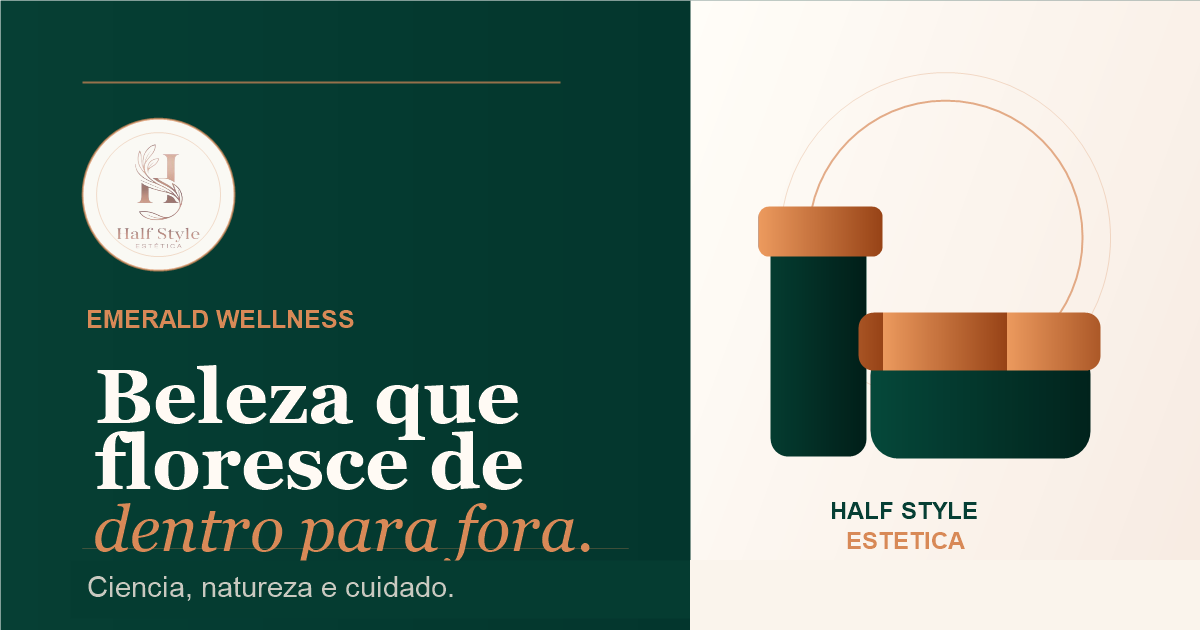
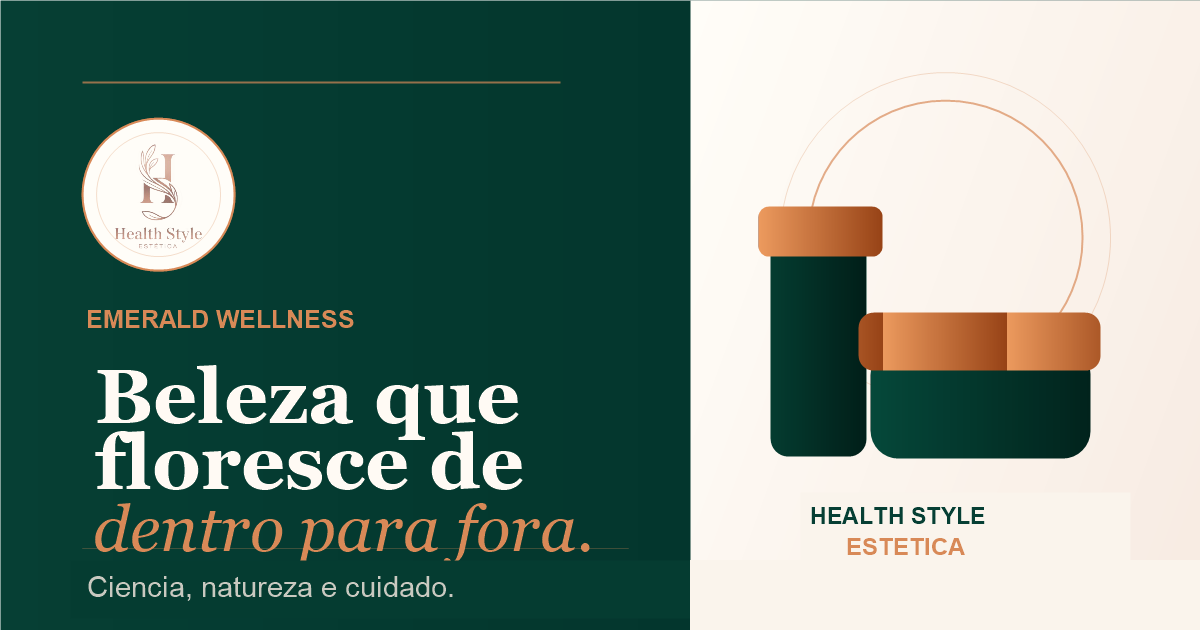
Health-corret

diff --git a/index.html b/index.html
@@ -3,18 +3,18 @@
   <head>
     <meta charset="UTF-8">
     <meta name="viewport" content="width=device-width, initial-scale=1.0">
-    <meta name="description" content="Half Style Estética: rituais personalizados Emerald Wellness que unem ciência, natureza e cuidado para realçar sua melhor versão.">
+    <meta name="description" content="Health Style Estética: rituais personalizados Emerald Wellness que unem ciência, natureza e cuidado para realçar sua melhor versão.">
     <meta name="theme-color" content="#063f34">
     <meta name="color-scheme" content="light">
-    <meta name="application-name" content="Half Style Estética">
-    <meta name="apple-mobile-web-app-title" content="Half Style">
+    <meta name="application-name" content="Health Style Estética">
+    <meta name="apple-mobile-web-app-title" content="Health Style">
     <meta name="apple-mobile-web-app-capable" content="yes">
     <meta name="apple-mobile-web-app-status-bar-style" content="default">
 
     <meta property="og:type" content="website">
     <meta property="og:locale" content="pt_BR">
-    <meta property="og:site_name" content="Half Style Estética">
-    <meta property="og:title" content="Half Style Estética | Emerald Wellness">
+    <meta property="og:site_name" content="Health Style Estética">
+    <meta property="og:title" content="Health Style Estética | Emerald Wellness">
     <meta property="og:description" content="Beleza que floresce de dentro para fora. Rituais personalizados com ciência, natureza e cuidado.">
     <meta property="og:url" content="https://half-style-estetica.vercel.app/">
     <meta property="og:image" content="https://half-style-estetica.vercel.app/og/half-style-og.png">
@@ -22,15 +22,15 @@
     <meta property="og:image:type" content="image/png">
     <meta property="og:image:width" content="1200">
     <meta property="og:image:height" content="630">
-    <meta property="og:image:alt" content="Half Style Estética Emerald Wellness, beleza que floresce de dentro para fora.">
+    <meta property="og:image:alt" content="Health Style Estética Emerald Wellness, beleza que floresce de dentro para fora.">
 
     <meta name="twitter:card" content="summary_large_image">
-    <meta name="twitter:title" content="Half Style Estética | Emerald Wellness">
+    <meta name="twitter:title" content="Health Style Estética | Emerald Wellness">
     <meta name="twitter:description" content="Beleza que floresce de dentro para fora. Rituais personalizados com ciência, natureza e cuidado.">
     <meta name="twitter:image" content="https://half-style-estetica.vercel.app/og/half-style-og.png">
-    <meta name="twitter:image:alt" content="Half Style Estética Emerald Wellness, beleza que floresce de dentro para fora.">
+    <meta name="twitter:image:alt" content="Health Style Estética Emerald Wellness, beleza que floresce de dentro para fora.">
 
-    <title>Half Style Estética | Emerald Wellness</title>
+    <title>Health Style Estética | Emerald Wellness</title>
     <link rel="canonical" href="https://half-style-estetica.vercel.app/">
     <link rel="manifest" href="/manifest.webmanifest">
     <link rel="icon" type="image/png" href="/favicon.png">

diff --git a/src/components/SiteFooter.vue b/src/components/SiteFooter.vue
@@ -1,16 +1,16 @@
 <script setup>
-import { logoHalfLife } from "../assets";
+import { logoHealthStyle } from "../assets";
 </script>
 
 <template>
   <footer class="footer px-5 py-12 lg:px-20 lg:py-16">
     <div class="footer-inner mx-auto grid max-w-7xl gap-10 lg:grid-cols-[1.15fr_0.85fr_0.7fr]">
       <div class="footer-brand">
-        <a class="footer-logo" href="#top" aria-label="Half Style Estética">
-          <img :src="logoHalfLife" alt="Half Style Estética">
+        <a class="footer-logo" href="#top" aria-label="Health Style Estética">
+          <img :src="logoHealthStyle" alt="Health Style Estética">
         </a>
         <div>
-          <h2 class="brand-title footer-title">Half Style Estética</h2>
+          <h2 class="brand-title footer-title">Health Style Estética</h2>
           <p>Atendimento estético premium com avaliação profissional, protocolos seguros e orientação clara antes de cada procedimento.</p>
         </div>
       </div>
@@ -21,7 +21,7 @@ import { logoHalfLife } from "../assets";
         <div class="footer-contact">
           <a href="https://wa.me/5500000000000" target="_blank" rel="noreferrer">WhatsApp</a>
           <a href="tel:+5500000000000">Telefone</a>
-          <a href="mailto:contato@halfstyle.com.br">Email</a>
+          <a href="mailto:contato@healthstyle.com.br">Email</a>
         </div>
       </div>
 

diff --git a/src/components/AboutSection.vue b/src/components/AboutSection.vue
@@ -6,13 +6,13 @@ import { metrics } from "../data/siteData";
 <template>
   <section class="about-panel" id="sobre">
     <div class="about-image-frame">
-      <img :src="emeraldStudioInterior" alt="Recepção da Half Style Estética em tons claros e naturais" loading="lazy">
+      <img :src="emeraldStudioInterior" alt="Recepção da Health Style Estética em tons claros e naturais" loading="lazy">
     </div>
 
     <div class="about-copy">
       <p class="section-kicker">Sobre nós</p>
       <h2>Mais que estética, um estilo de vida.</h2>
-      <p>Na Half Style Estética, acreditamos que o cuidado verdadeiro vai além da aparência. É sobre sentir-se bem, ter mais confiança e viver sua melhor versão todos os dias.</p>
+      <p>Na Health Style Estética, acreditamos que o cuidado verdadeiro vai além da aparência. É sobre sentir-se bem, ter mais confiança e viver sua melhor versão todos os dias.</p>
       <a class="emerald-button" href="#contato">
         Conheça nossa história
         <span aria-hidden="true">→</span>

diff --git a/src/components/SiteHeader.vue b/src/components/SiteHeader.vue
@@ -1,6 +1,6 @@
 <script setup>
 import { ref } from "vue";
-import { logoHalfLife } from "../assets";
+import { logoHealthStyle } from "../assets";
 
 const mobileOpen = ref(false);
 
@@ -16,12 +16,12 @@ const navItems = [
 
 <template>
   <header class="site-header">
-    <a class="brand-lockup emerald-brand" href="#top" aria-label="Half Style Estética">
+    <a class="brand-lockup emerald-brand" href="#top" aria-label="Health Style Estética">
       <span class="emerald-brand-seal" aria-hidden="true">
-        <img :src="logoHalfLife" alt="">
+        <img :src="logoHealthStyle" alt="">
       </span>
       <span class="emerald-brand-copy">
-        <strong>Half Style</strong>
+        <strong>Health Style</strong>
         <small>Estética</small>
       </span>
       <span class="emerald-brand-underline" aria-hidden="true"></span>

diff --git a/src/assets.js b/src/assets.js
@@ -1,5 +1,5 @@
-import logoHalfLife from "./image/logo/logo-Halfe-Life.png";
-import halfStyleFinal from "./image/half_style_final.png";
+import healthStyleFinal from "./image/half_style_final.png";
+import logoHealthStyle from "./image/logo/logo-Halfe-Life.png";
 import emeraldHeroProducts from "./image/esmerald/hero-products.png";
 import emeraldStudioInterior from "./image/esmerald/studio-interior.png";
 import emeraldTreatmentAdvanced from "./image/esmerald/treatment-advanced.png";
@@ -14,6 +14,6 @@ export {
   emeraldTreatmentBody,
   emeraldTreatmentFacial,
   emeraldTreatmentHomecare,
-  halfStyleFinal,
-  logoHalfLife
+  healthStyleFinal,
+  logoHealthStyle
 };

diff --git a/src/style.css b/src/style.css
@@ -1047,9 +1047,9 @@ body {
 }
 
 .emerald-brand-copy strong {
-  font-size: clamp(1.35rem, 1.8vw, 1.9rem);
+  font-size: clamp(1.2rem, 1.55vw, 1.62rem);
   font-weight: 800;
-  letter-spacing: 0.18em;
+  letter-spacing: 0.14em;
 }
 
 .emerald-brand-copy small {
@@ -1776,8 +1776,8 @@ body {
   }
 
   .emerald-brand-copy strong {
-    font-size: 1.18rem;
-    letter-spacing: 0.12em;
+    font-size: 1rem;
+    letter-spacing: 0.08em;
   }
 
   .emerald-brand-copy small {
@@ -1816,7 +1816,8 @@ body {
   }
 
   .emerald-brand-copy strong {
-    font-size: 1rem;
+    font-size: 0.88rem;
+    letter-spacing: 0.06em;
   }
 
   .emerald-brand-copy small {

diff --git a/src/components/ContactSection.vue b/src/components/ContactSection.vue
@@ -25,7 +25,7 @@ function submitForm() {
       <div class="contact-links mt-6 flex flex-wrap gap-3">
         <a href="https://wa.me/5500000000000" target="_blank" rel="noreferrer">WhatsApp</a>
         <a href="tel:+5500000000000">Ligar</a>
-        <a href="mailto:contato@halfstyle.com.br">Email</a>
+        <a href="mailto:contato@healthstyle.com.br">Email</a>
       </div>
     </div>
 

diff --git a/src/components/HeroSection.vue b/src/components/HeroSection.vue
@@ -80,7 +80,7 @@ onUnmounted(() => {
       @click="playFlip"
       @touchstart.passive="playFlip"
     >
-      <img :src="emeraldHeroProducts" alt="Linha Emerald Wellness com sérum e máscara da Half Style Estética">
+      <img :src="emeraldHeroProducts" alt="Linha Emerald Wellness com sérum e máscara da Health Style Estética">
     </div>
   </section>
 </template>

diff --git a/public/sw.js b/public/sw.js
@@ -1,4 +1,4 @@
-const CACHE_NAME = "half-style-emerald-cache-v2";
+const CACHE_NAME = "health-style-emerald-cache-v3";
 const APP_SHELL = [
   "/",
   "/manifest.webmanifest",
